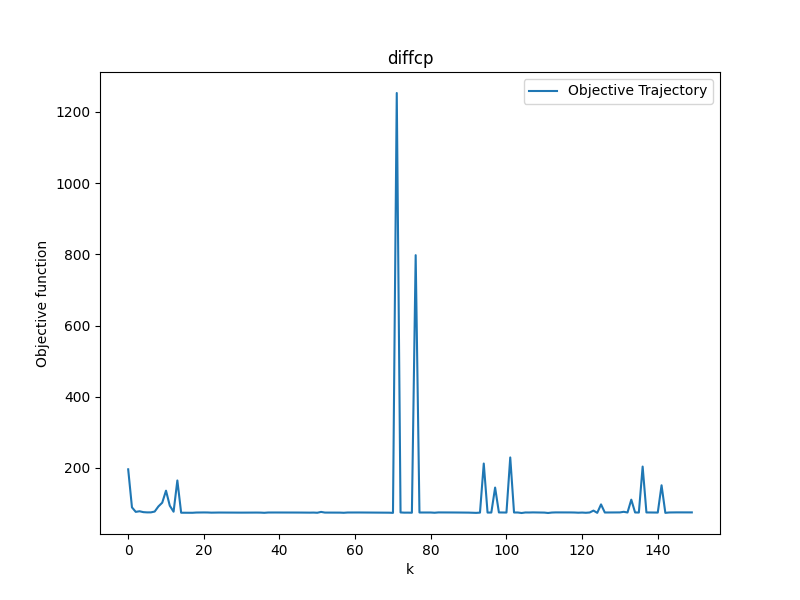
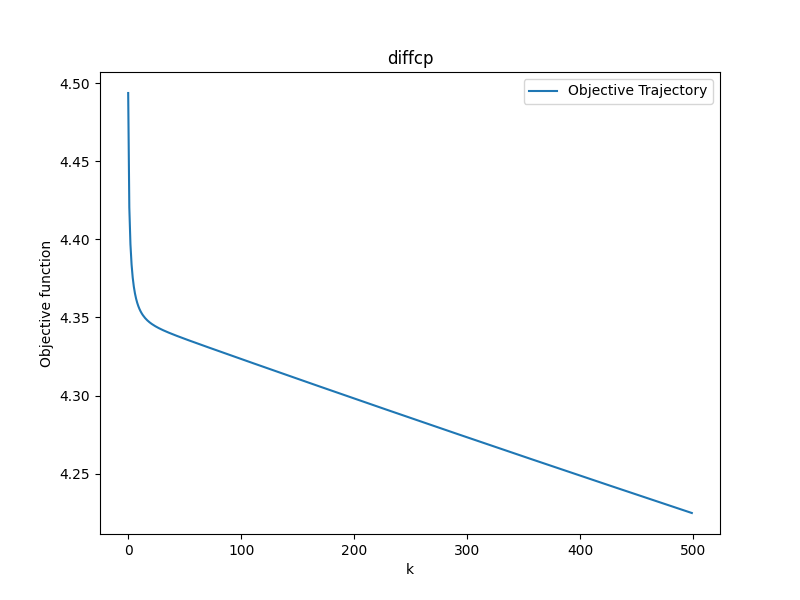
better learning rates

diff --git a/experiments/basic_experiments.py b/experiments/basic_experiments.py
@@ -13,27 +13,27 @@ if __name__ == "__main__":
     m = 20
     n = 10
 
-    # generator = partial(generate_LS_problem, m, n, return_problem_only=True)
+    generator = partial(generate_LS_problem, m, n, return_problem_only=True)
     
-    # experiment1 = GradDescTestHelper(generator, dtype=torch.float64)
-    # print("=== starting LS diffcp experiment ===")
-    # experiment1_diffcp_result = experiment1.cp_grad_desc()
-    # print("=== starting LS diffqcp experiment ===")
-    # experiment1_diffqcp_result = experiment1.qcp_grad_desc()
+    experiment1 = GradDescTestHelper(generator, dtype=torch.float64)
+    print("=== starting LS diffcp experiment ===")
+    experiment1_diffcp_result = experiment1.cp_grad_desc(step_size=1e-5, num_iter=500)
+    print("=== starting LS diffqcp experiment ===")
+    experiment1_diffqcp_result = experiment1.qcp_grad_desc(step_size=1e-5, num_iter=500)
     
-    # save_path = os.path.join(results_dir, "diffcp_LS.png")
-    # experiment1_diffcp_result.plot_obj_traj(save_path)
+    save_path = os.path.join(results_dir, "diffcp_LS.png")
+    experiment1_diffcp_result.plot_obj_traj(save_path)
 
-    # save_path = os.path.join(results_dir, "diffqcp_LS.png")
-    # experiment1_diffqcp_result.plot_obj_traj(save_path)
+    save_path = os.path.join(results_dir, "diffqcp_LS.png")
+    experiment1_diffqcp_result.plot_obj_traj(save_path)
 
     generator2 = partial(generate_least_squares_eq, m, n, return_all=False, return_problem_only=True)
 
     experiment2 = GradDescTestHelper(generator2, dtype=torch.float64)
     print("=== starting LS equality constrained diffcp experiment ===")
-    experiment2_diffcp_result = experiment2.cp_grad_desc()
+    experiment2_diffcp_result = experiment2.cp_grad_desc(step_size=1e-5, num_iter=500)
     print("=== starting LS equality constrained diffqcp experiment ===")
-    experiment2_diffqcp_result = experiment2.qcp_grad_desc()
+    experiment2_diffqcp_result = experiment2.qcp_grad_desc(step_size=1e-5, num_iter=500)
     
     save_path = os.path.join(results_dir, "diffcp_LS_eq.png")
     experiment2_diffcp_result.plot_obj_traj(save_path)

diff --git a/experiments/utils.py b/experiments/utils.py
@@ -39,9 +39,9 @@ class GradDescTestResult:
             raise ValueError("obj_traj is None. Cannot plot.")
 
         plt.figure(figsize=(8, 6))
-        plt.plot(range(self.num_iterations), self.obj_traj, label="Objective Trajectory")
+        plt.plot(range(self.num_iterations), np.log(self.obj_traj), label="Objective Trajectory")
         if self.lsqr_residuals is not None:
-            plt.plot(range(self.num_iterations), self.lsqr_residuals, label="LSQR residuals")
+            plt.plot(range(self.num_iterations), np.log(self.lsqr_residuals), label="LSQR residuals")
             print("NUM lsqr_residuals: ", self.lsqr_residuals.shape[0])
         plt.xlabel("k")
         # plt.ylabel("$f_0(p^{k}) = 0.5 \\| z(p) - z^{\\star} \\|^2$")
